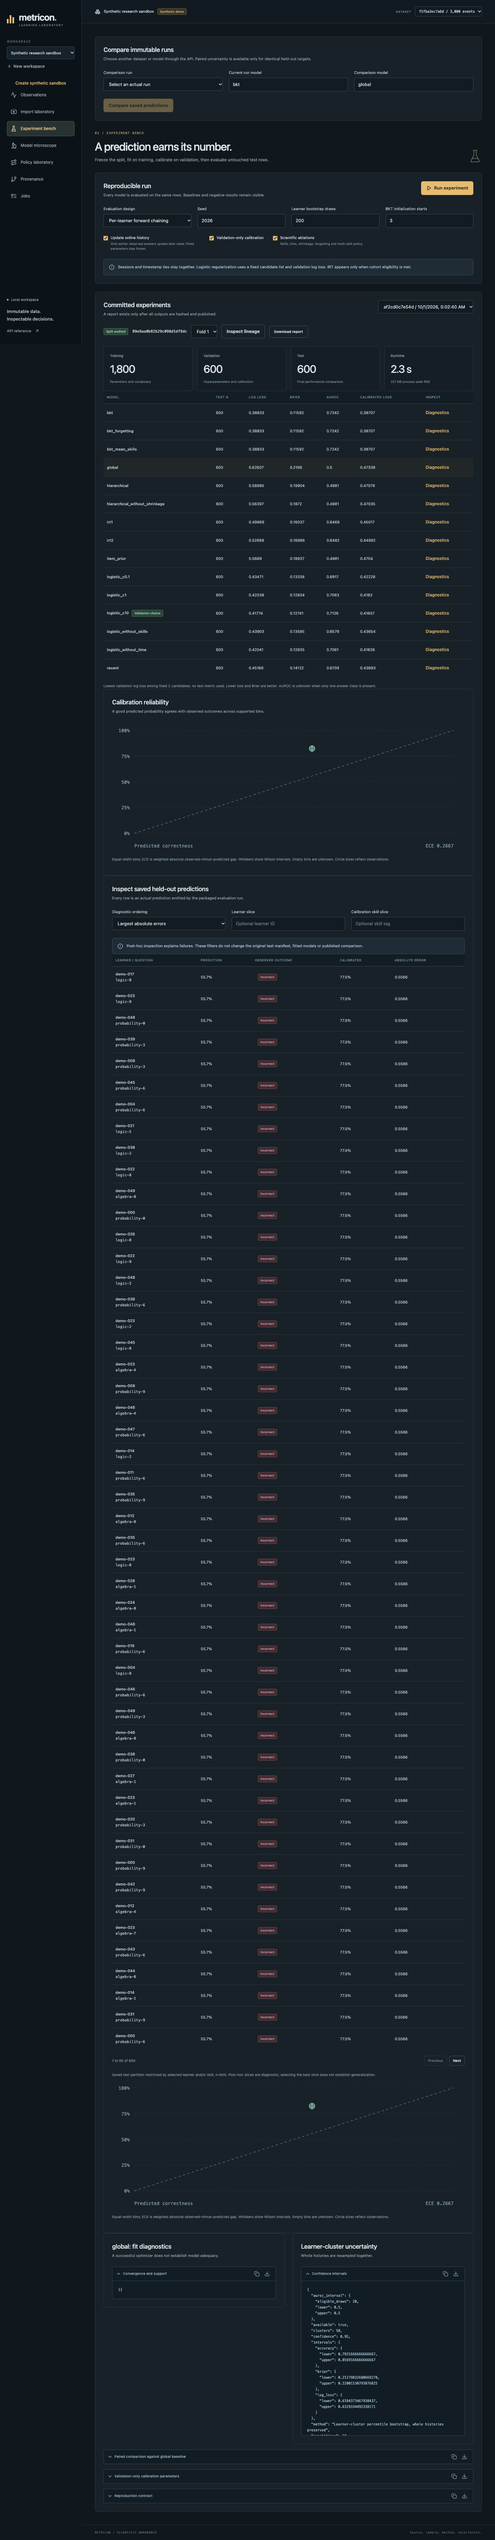
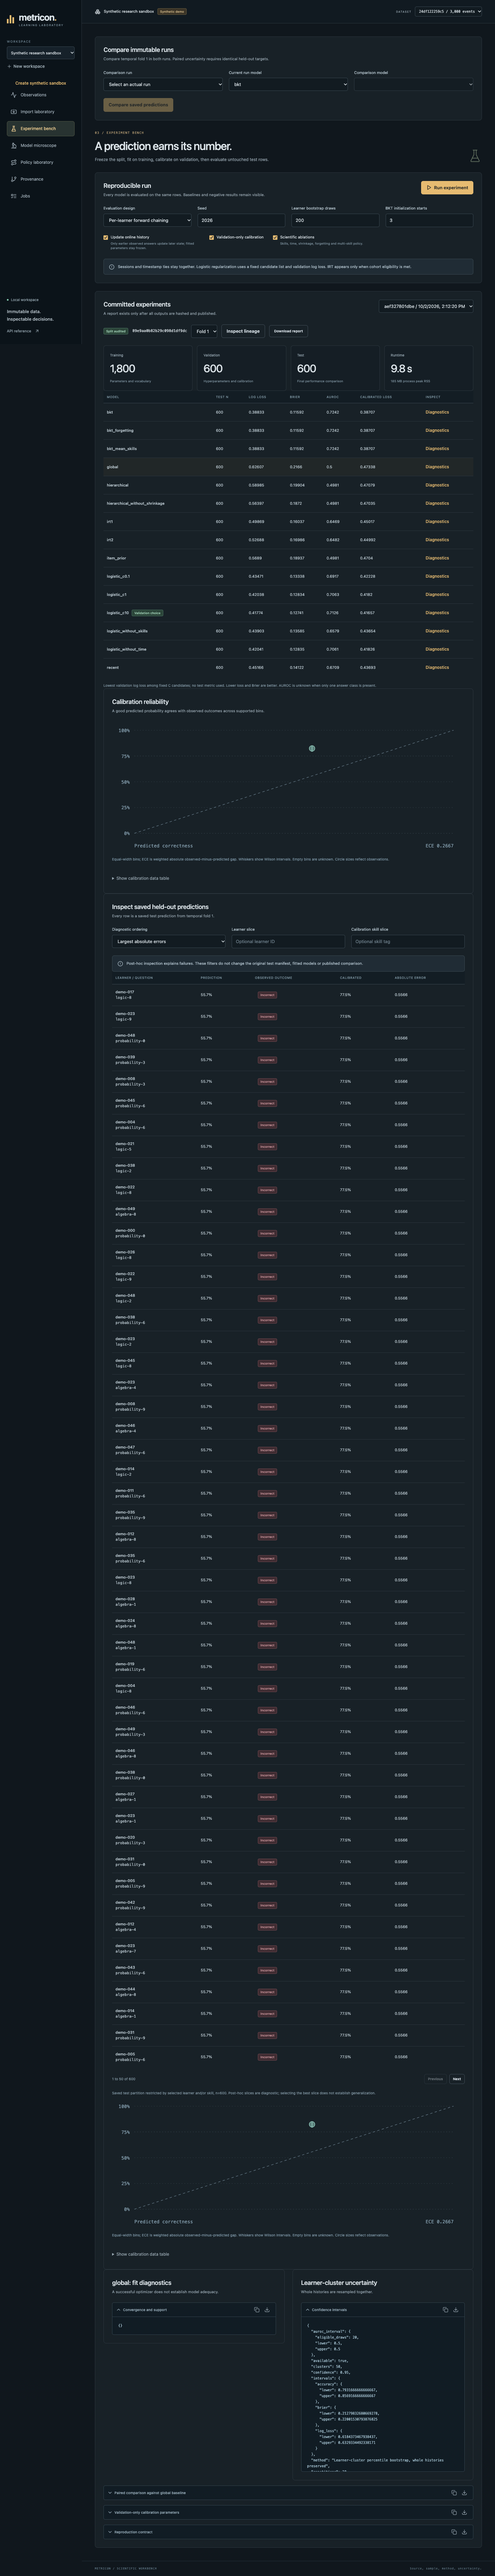
Refresh verified research reports and workbench captures

diff --git a/docs/BUILD_STATUS.md b/docs/BUILD_STATUS.md
@@ -1,28 +1,14 @@
 # Build status
 
-## Current maintenance verification
+## Current verification
 
-The laptop/mobile audit found and repaired a clean-clone installation failure in hosted CI. A fresh source checkout without generated client assets now installs with `uv sync --locked`; distribution wheels still bundle the compiled client and exact dependency lock. Focused API tests and an installed-wheel check from outside the checkout passed. Responsive interaction tests are in progress. GitHub Pages cannot execute the Python service, so the complete laboratory keeps its local deployment workflow. The campaign below describes the previous accepted source; a changed source requires fresh acceptance and verification before it is accepted.
+The frozen source passed the complete correctness campaign and independent verification on October 2, 2026. All 12 required correctness gates passed, together with 100 Python tests, 10 client unit tests and 66 browser cases. Synthetic predictive targets passed. Canonical import throughput remains below its tuning objective and is reported separately.
 
-The follow-up integrity regressions reproduced historical-version submissions and unchecked research payloads, then passed after remediation. Prediction diagnostics, comparison and observed replay now carry the selected temporal fold. Deep links preserve version, learner and artifact selection across reload/back navigation and reject foreign workspace versions. Changing data clears prepared exports. Unknown model families, offline responses and clipboard denial have explicit recovery states.
+A clean source checkout installs before client compilation. Distribution wheels contain the compiled workbench, recovery manifest and exact dependency lock; an installed wheel was checked from outside the checkout. Dataset versions and temporal folds remain pinned across task submission, diagnostics, comparison and replay. Committed research payloads are checksum-checked before display. Deep links preserve workspace/version/learner/run context, and data changes clear prepared exports.
 
-The maintenance checks passed 92 Python tests, 10 client unit tests, strict typing, a production client build and 63 browser cases across laptop Chromium, touch Chromium and mobile WebKit. Each browser profile checks all seven sections at 320, 360, 390, 768, 1280 and 1440 pixels, then exercises real fitting, rolling folds, cancellation, rejection inspection, exports and navigation. The previous acceptance remains historical until the complete campaign is reproduced on the final frozen source.
+Browser verification covers laptop Chromium, touch Chromium and mobile WebKit. Every section is checked at 320, 360, 390, 768, 1280 and 1440 pixels, alongside actual fitting, rejection inspection, calibration, model comparison, running cancellation, exports and keyboard navigation. These are browser emulations, not physical-device measurements. Real network/module failures expose recovery controls. Simulation cancellation is cooperative, progress counts completed trials, and unaffordable budgets or repeated policy names are rejected before queuing work.
 
-The final selection review also repaired stale comparison output and constrained comparisons to eligible saved model families. The first focused campaign passed eight of nine cases: WebKit retained a failed module after reload. A manifest-scoped retry with a fresh module URL repaired recovery. All nine focused cases now pass, together with 11 API/integrity regressions, lint, strict typing, the production build and 10 unit checks. The failed traces remain retained locally. Next action: freeze source and reproduce the complete acceptance campaign, including all 66 browser cases.
-
-The subsequent acceptance attempt passed locked installation, lint, all 93 Python tests, strict typing, 10 client unit tests and both production builds. Browser verification stopped with 47 passed, four failed and 15 unrun cases. Three failures came from a selector matching a hidden native option rather than the fitted model table. The remaining failure exposed long native select text leaking into WebKit's document width at 320 pixels. The selector now checks the visible model cell, and select text is contained with ellipsis while full options remain available. Five independent repetitions of the unchanged narrow WebKit assertion passed. Failure logs, traces and element geometry remain retained; this attempt did not create accepted evidence. Next action: complete the workflow regressions, commit remediation, then reproduce the complete frozen-source campaign.
-
-The following workflow run passed 22 cases, failed one cancellation case and left one dependent case unrun. Its trace showed the Jobs navigation name changing to `Jobs 1` after polling received a running task. Navigation now retains a stable accessible name, and the active count is a separate accessible description. Cancellation checks explicitly wait for a real running worker and the visible badge description before navigating. This failure and its final page state remain retained locally.
-
-The strengthened cancellation check then exposed an older cached task card being selected. It now selects the submitted job by identity. Simulation workers check cancellation at seed/action boundaries and report actual completed policy trials. Remediation passed all 24 workflow cases across the three browser profiles, seven task/simulation regressions, lint and the strict production client build. Next action: commit this increment, freeze source and rerun complete acceptance and verification.
-
-That frozen campaign passed 96 Python tests, 10 unit tests, all 66 browser cases, 10,000 import records, 1,000 analytical datasets, 100 interruptions and the simulation campaign. It was interrupted before final publication after a separate boundary check found unaffordable simulation budgets reporting zero accuracy with no actions. The engine/API now reject those configurations while accepting the exact action-cost boundary. Raw failure output is retained. Next action: check the new contract, commit it, then rerun complete acceptance on the corrected source.
-
-The same contract review found duplicate policy names repeating identical seed samples. Policies now require uniqueness before fitting any simulation summaries. All 18 focused simulation, process and API checks passed. Next action: commit the eligibility changes and reproduce final frozen-source acceptance; the interrupted campaign remains unaccepted evidence.
-
-The eligibility source passed complete acceptance and verification: 100 Python tests, 10 unit tests, 66 browser cases and every correctness gate. Verification's printed path exposed a variable-shadowing defect even though its checks passed; the output now retains the acceptance record's path. Next action: check and commit that reporting fix, then reproduce evidence on the resulting source.
-
-The implemented laboratory passed the complete correctness campaign and independent verification on October 1, 2026. The synthetic predictive targets passed. The canonical import throughput objective remains unmet and is reported separately.
+The [review](reports/REVIEW.md) records each reproduced defect and its regression. Failed traces, interrupted campaigns and raw negative results remain retained locally. Only the final source-matched campaign is accepted. The complete laboratory uses its local Python service; GitHub Pages cannot execute that service.
 
 ## Implemented contracts
 
@@ -39,7 +25,7 @@ The original sample typing failure, invented peer benchmarks, cumulative-success
 
 ## Command evidence
 
-Locked Python and Node installs, lint, strict TypeScript, production client/wheel builds and browser verification passed. The final fast campaign reports 88 Python tests, 3 client unit tests and 8 browser workflows. One upstream Starlette/AnyIO deprecation warning remains visible.
+Locked Python and Node installs, lint, strict TypeScript, production client/wheel builds and browser verification passed. The final fast campaign reports 100 Python tests, 10 client unit tests and 66 browser cases. One upstream Starlette/AnyIO deprecation warning remains visible.
 
 | Command | Recorded outcome |
 | --- | --- |
@@ -52,7 +38,7 @@ Locked Python and Node installs, lint, strict TypeScript, production client/whee
 | `npm run build` | Passed; `.metricon/verification/commands/production-build.json` and its raw log. |
 | `uv build --wheel` | Passed; `.metricon/verification/commands/api-build.json` and its raw log. |
 | `npm run test:e2e` | Passed; `.metricon/verification/commands/browser.json` and its raw log. |
-| `make bootstrap` | Locked environment, client and wheel built; the final installed-wheel check also fitted all baseline/BKT/IRT families, retained the exact lock and served HTTP 200. |
+| `make bootstrap` | Locked environment, client and wheel built. Installed-wheel smoke checks fitted baseline/BKT/IRT families; the final wheel retained the exact lock and served HTTP 200 for all seven client sections. |
 | `make dev`, `make demo` | Local API/client startup and explicit demo creation exercised. Startup failure propagates and owned process groups are cleaned up. |
 | `make test-integration` | Independent import, analytical and interruption campaigns completed; final acceptance reran or checked their source-matched evidence. |
 | CLI walkthrough | 23 actual commands exercised import/retry/rejection, analysis, fitting, forward/learner-held-out/rolling evaluation, paired comparison, planning, simulation and all four export formats. Expected invalid validation returned nonzero. |
@@ -85,6 +71,6 @@ Actual [figures](figures) link to raw figure data and immutable run IDs. [Workbe
 
 ## Evidence and next action
 
[2 lines of base64/hex data omitted]
 
 Incomplete required correctness gates: none. The remaining measured optimization objective is import throughput. Reproduce `make acceptance` and `make verify` before comparing a changed implementation. Changes to data or transformation contracts require new dependent artifacts and fresh verification; existing results remain immutable.

diff --git a/docs/reports/RESEARCH.md b/docs/reports/RESEARCH.md
@@ -119,9 +119,9 @@ make acceptance
 make verify
 ```
 
[2 lines of base64/hex data omitted]
 
-The [aggregate machine-readable report](data/research.json) and [model table](data/models.csv) contain derived metrics, population counts, intervals, hashes and seeds. They contain no raw learner records. Local raw evidence includes [the run report](../../.metricon/artifacts/3b3d8adfa1a6bdbbcbecc8075a040765c14da099a617cd056dd70115783fbffb/report.json), [frozen predictions](../../.metricon/artifacts/3b3d8adfa1a6bdbbcbecc8075a040765c14da099a617cd056dd70115783fbffb/fold-0/predictions.parquet), [split assignments](../../.metricon/artifacts/3b3d8adfa1a6bdbbcbecc8075a040765c14da099a617cd056dd70115783fbffb/fold-0/split.json), [preprocessing scopes](../../.metricon/artifacts/3b3d8adfa1a6bdbbcbecc8075a040765c14da099a617cd056dd70115783fbffb/fold-0/preprocessing.json) and the run's `dependency.lock`. Ignored artifacts become available after local reproduction.
+The [aggregate machine-readable report](data/research.json) and [model table](data/models.csv) contain derived metrics, population counts, intervals, hashes and seeds. They contain no raw learner records. Local raw evidence includes [the run report](../../.metricon/artifacts/fc32b876155c76d34b1c27d890e1f47f46462b4ec8e0e2c3c65c92a785e68b4a/report.json), [frozen predictions](../../.metricon/artifacts/fc32b876155c76d34b1c27d890e1f47f46462b4ec8e0e2c3c65c92a785e68b4a/fold-0/predictions.parquet), [split assignments](../../.metricon/artifacts/fc32b876155c76d34b1c27d890e1f47f46462b4ec8e0e2c3c65c92a785e68b4a/fold-0/split.json), [preprocessing scopes](../../.metricon/artifacts/fc32b876155c76d34b1c27d890e1f47f46462b4ec8e0e2c3c65c92a785e68b4a/fold-0/preprocessing.json) and the run's `dependency.lock`. Ignored artifacts become available after local reproduction.
 
 The implementation walkthrough follows [temporal splits](../../src/metricon/evaluation/splits.py), [as-of history](../../src/metricon/features/history.py), [BKT fitting/inference](../../src/metricon/models/bkt.py), [cohort restrictions](../../src/metricon/models/irt.py), [frozen evaluation](../../src/metricon/evaluation/frozen.py) and [cluster resampling](../../src/metricon/evaluation/metrics.py). [Model cards](../MODEL_CARDS.md) retain interpretation limits. [Scientific/source review](REVIEW.md) records discovered failures and their remediation.
 
@@ -130,16 +130,16 @@ The implementation walkthrough follows [temporal splits](../../src/metricon/eval
 
 ![Frozen test probabilities with ten equal-width bins. Wilson bars are marginal bin summaries and do not account for within-learner dependence. Cluster loss intervals are reported separately.](../figures/calibration.png)
 
[2 lines of base64/hex data omitted]
 
 ![Held-out prediction error by prior observed history length. Bins require at least 30 targets. This is an association across history lengths, not an estimated causal learning curve.](../figures/learning-curve.png)
 
[2 lines of base64/hex data omitted]
 
 ![Twenty sparse observed items with Beta(1+s, 1+n-s) performance uncertainty and explicit counts. These intervals do not measure latent skill knowledge.](../figures/uncertainty.png)
 
[2 lines of base64/hex data omitted]
 
 ![Every eligible raw model and named ablation on the same held-out targets. All baselines remain visible, including models that outperform BKT and poor cohort IRT results.](../figures/ablations.png)
 
[2 lines of base64/hex data omitted]

diff --git a/docs/reports/PERFORMANCE.md b/docs/reports/PERFORMANCE.md
@@ -59,13 +59,15 @@ The import worker's original four-history BKT timer mostly exercised sparse fall
 
 | Source input records | Complete fitting rows | Learners/optimized skills | Global fit p50 ms | BKT fit p50 seconds | Max fit process RSS GiB |
 | --- | --- | --- | --- | --- | --- |
-| 100,000 | 80 | 8/2 | 0.008 | 0.0239 | 0.215 |
-| 1,000,000 | 800 | 8/2 | 0.053 | 0.2491 | 0.248 |
-| 10,000,000 | 8000 | 8/2 | 0.598 | 2.6341 | 0.331 |
+| 100,000 | 80 | 8/2 | 0.033 | 0.1128 | 0.214 |
+| 1,000,000 | 800 | 8/2 | 0.106 | 1.1253 | 0.259 |
+| 10,000,000 | 8,000 | 8/2 | 1.100 | 4.6128 | 0.311 |
 
-The actual EdNet experiment used all 118,288 training rows before model-specific eligibility restrictions. Its combined fit/predict/diagnostic runtime was 459.43 seconds. Its process-lifetime peak RSS was 1.485 GiB, including prior allocations. Per-model runtime includes fitting and prediction, not isolated optimizer time. BKT used 38.39 seconds; selected logistic used 10.56; 1PL used 7.63; 2PL used 8.71. [Research support and diagnostics](RESEARCH.md) explain what those models fitted.
+The actual EdNet experiment used all 118,288 training rows before model-specific eligibility restrictions. Its combined fit/predict/diagnostic runtime was 322.93 seconds. Its process-lifetime peak RSS was 1.733 GiB, including prior allocations. Per-model runtime includes fitting and prediction, not isolated optimizer time. BKT used 40.11 seconds; selected logistic used 9.92; 1PL used 7.70; 2PL used 8.26. [Research support and diagnostics](RESEARCH.md) explain what those models fitted.
 
 The complete public experiment artifact occupies 210.35 MiB, including raw probabilities, parameters, source, exact lock and diagnostics. Acquisition archives and normalized source observations are separate.
+
+The current campaign reused the import/query measurements only after checking their unchanged measurement-module hashes, normalized corpus contents and preserved source snapshots. It reran all 15 fitting measurements and the complete public experiment on the accepted source. Changes to relevant measurement modules invalidate those cached repetitions.
 
 ## Failures, scope and reproduction
 
@@ -86,4 +88,4 @@ make verify
 
 ![Five-repetition import medians and maximum import RSS at each scale. Cold/warm query methods and unsuccessful performance objectives remain in the report.](../figures/scale.png)
 
[2 lines of base64/hex data omitted]

diff --git a/docs/WORKBENCH.md b/docs/WORKBENCH.md
@@ -1,6 +1,6 @@
 # Scientific workbench walkthrough
 
-Run `make bootstrap` and `.venv/bin/metricon serve --port 8000`, then open [the local workbench](http://127.0.0.1:8000). The following images were captured from the running application during browser verification. They show an authored legacy fixture and an explicitly synthetic sandbox. No public learner history is redistributed in these screenshots.
+Run `make bootstrap` and `.venv/bin/metricon serve --port 8000`, then open [the local workbench](http://127.0.0.1:8000). The following images were captured from the running application during automated and manual browser verification. They show an authored legacy fixture and an explicitly synthetic sandbox. No public learner history is redistributed in these screenshots.
 
 ## Inspect observations and their limits
 
@@ -28,7 +28,9 @@ Policy laboratory ranks actions from observed support, uncertainty, priorities a
 
 Navigation, forms, notices and table alternatives remain usable at the verified mobile viewport. Long immutable IDs wrap. Keyboard activation and accessible chart alternatives are covered by the browser workflow.
 
-![Readable synthetic observation filters at the mobile viewport](screenshots/mobile-viewport.png)
+![Readable synthetic observation filters at a 390 pixel mobile viewport](screenshots/mobile-viewport.png)
+
+This compact viewport capture uses a fixed synthetic research sandbox. The WebKit capture below uses the smaller browser verification population; each image retains its own eligible counts.
 
 The [responsive workflow](../web/e2e/responsive.spec.ts) checks 320 through 1440 pixel widths under laptop Chromium, touch Chromium and mobile WebKit. These are browser emulations, not measurements on physical phones. Coarse-pointer controls retain usable touch targets and 16 pixel input text; reduced-motion preferences disable spinner animation. Long select labels use ellipsis inside the control while native dropdowns retain their full options. Timeline bins can be inspected by native selection, and calibration data has an expandable table.
 
